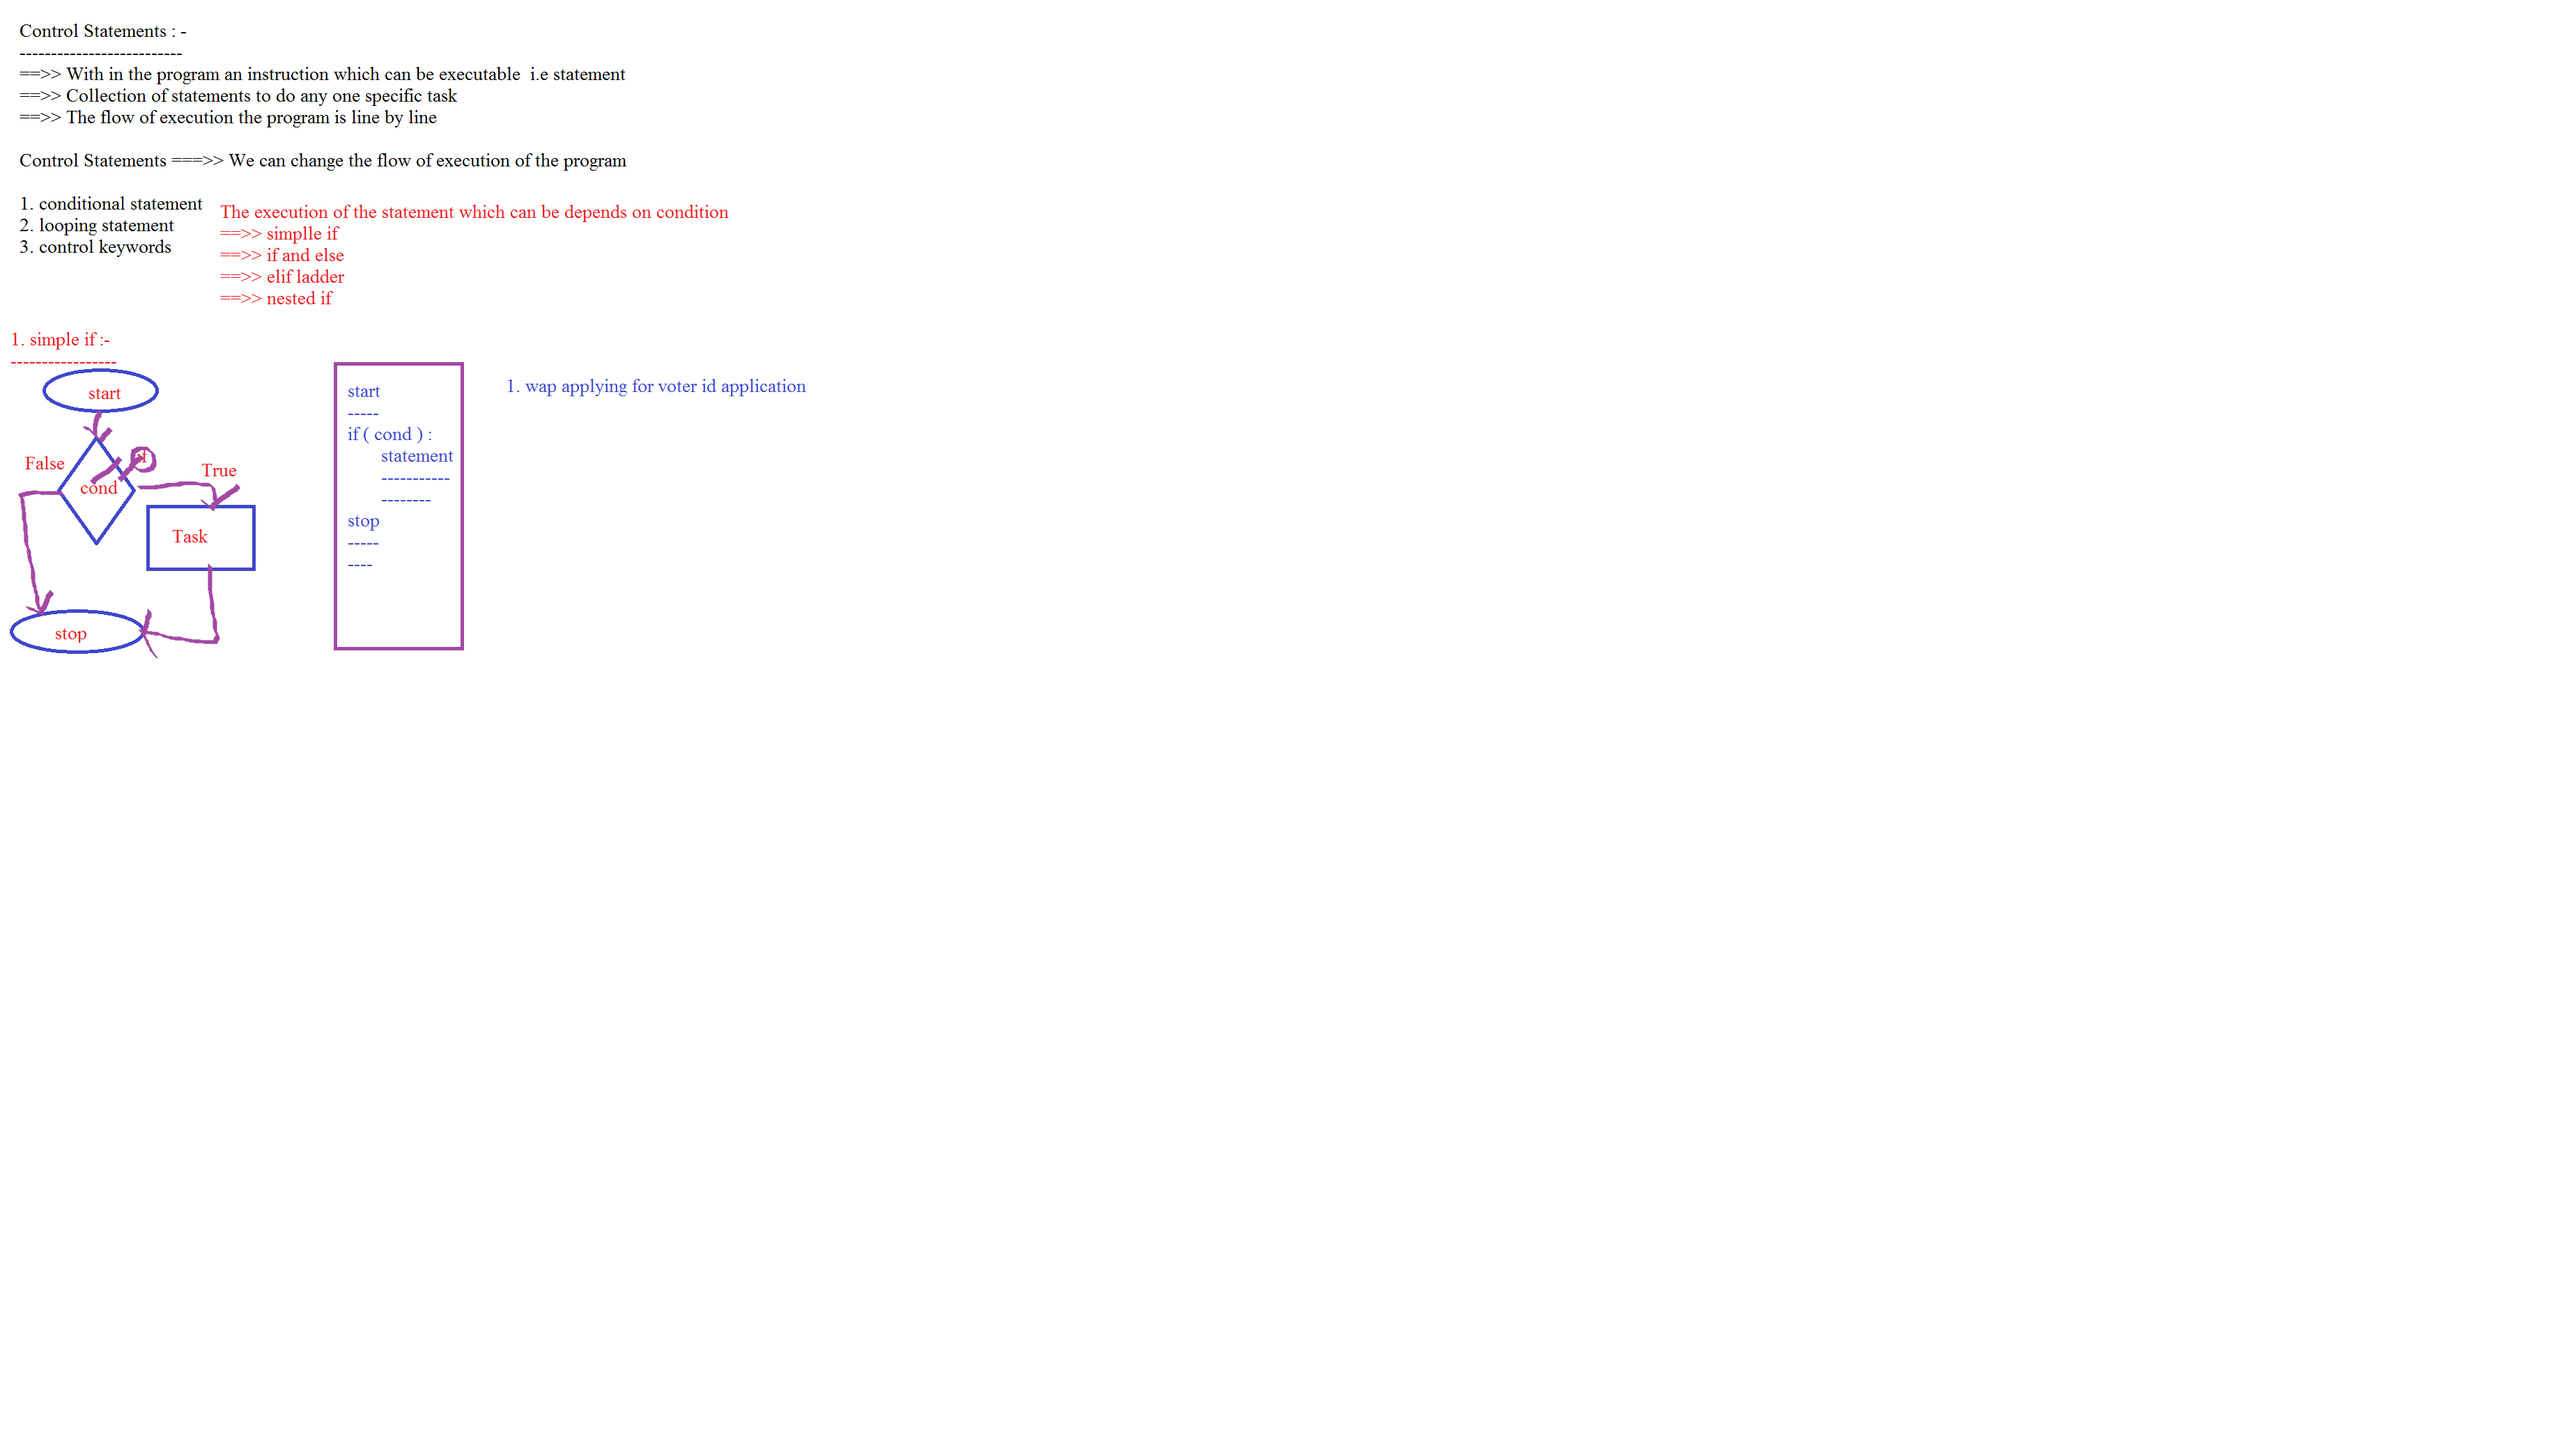
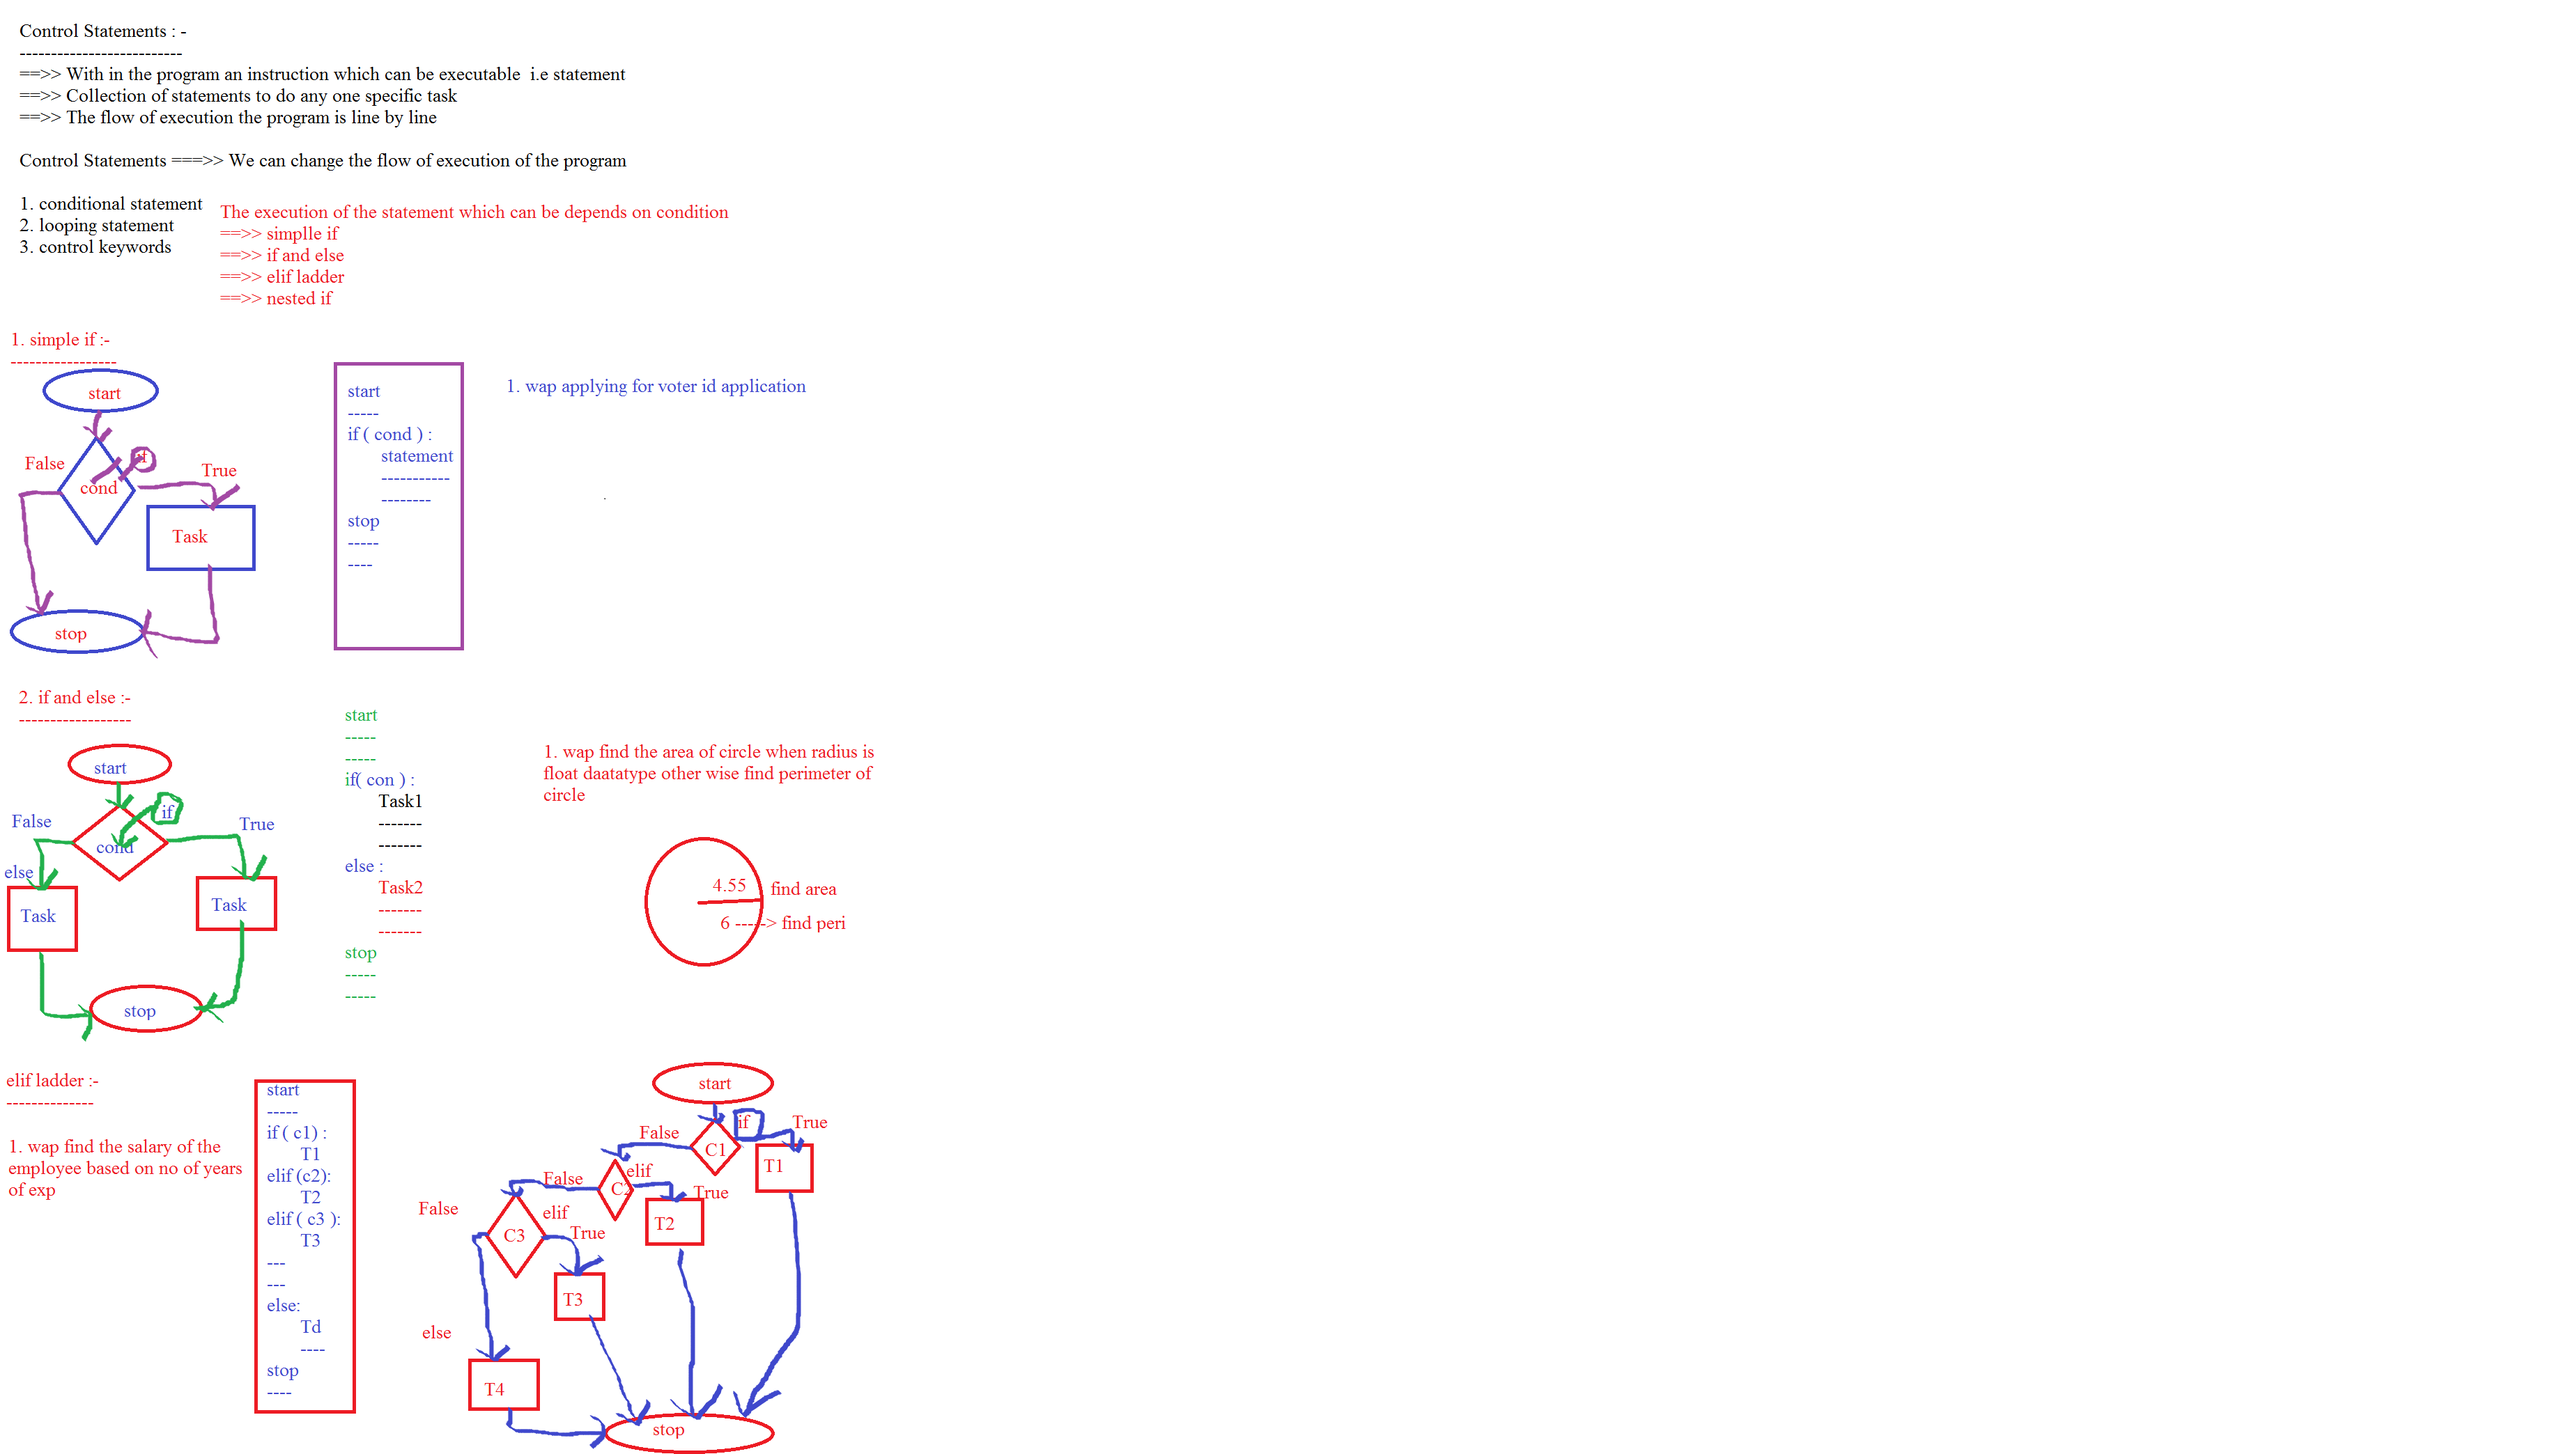
Add files via upload

diff --git a/002_Built_in_fun/001_syntax/003_fundamental.py b/002_Built_in_fun/001_syntax/003_fundamental.py
@@ -1,0 +1,38 @@
+# fundamental datatype
+'''
+A single variable can hold single data elements
+        int
+        float
+        complex
+        bool
+        None tupe
+'''
+print "*************  int *************"
+var = 123
+print "var : ",var
+print type(var)
+print id(var)
+print "*************  float *************"
+var = 12.5653
+print "var : ",var
+print type(var)
+print id(var)
+print "*************  complex*************"
+var = 12 + 45j
+print "var : ",var
+print type(var)
+print id(var)
+print "*************  bool *************"
+var = True
+print "var : ",var
+print type(var)
+print id(var)
+var = False
+print "var : ",var
+print type(var)
+print id(var)
+print "*************  None *************"
+var = None  # no data
+print "var : ",var
+print type(var)
+print id(var)

diff --git a/002_Built_in_fun/001_syntax/004_sequencial.py b/002_Built_in_fun/001_syntax/004_sequencial.py
@@ -1,0 +1,27 @@
+# seqencial datatype
+print "**************** str ************"
+var = "python program"
+print "data in var",var
+print type(var)
+print "memory : ",id(var)
+
+print "**************** list ************"
+var = [12,56.34,6+4j,None,True]
+print "data in var",var
+print type(var)
+print "memory : ",id(var)
+print "**************** tuple ************"
+var = (12,56.34,6+4j,None,True)
+print "data in var",var
+print type(var)
+print "memory : ",id(var)
+print "**************** set ************"
+var = {12,56.34,6+4j,None,True}
+print "data in var",var
+print type(var)
+print "memory : ",id(var)
+print "**************** dict ************"
+var = {12:123 ,56.34 : "soc" ,6+4j : "python",None:True}
+print "data in var",var
+print type(var)
+print "memory : ",id(var)

diff --git a/007_control/001_cond/003_salary.py b/007_control/001_cond/003_salary.py
@@ -1,0 +1,23 @@
+#wap find the salary based on exp
+
+exp = input("enter no of years of exp : ")
+if( exp >=0):
+    if( exp >=0 and exp <=2):
+        print "salary  2.4 lac PA "
+    elif( exp > 2 and exp <= 4):
+        print "salary  4.8 lac PA "
+    elif(exp > 4 and exp <= 6):
+        print "salary  8.0 lac PA "
+    elif(exp > 6 and exp <= 10):
+        print "salary  14.0 lac PA "
+    elif(exp > 10 and exp <= 14):
+        print "salary  25 lac PA "
+    elif(exp > 14 and exp <= 20):
+        print "salary  50 lac PA "
+    else:
+        print "salary 1.0 cr PA"
+else:
+    print" enter proper exp "
+
+
+

diff --git a/002_Built_in_fun/001_syntax/001_instruction.py b/002_Built_in_fun/001_syntax/001_instruction.py
@@ -1,0 +1,29 @@
+# script mode / batch mode
+'''
+---> Create a new file
+---> write the python statements  on  untilted file
+---> save the file as .py extention
+---> run the python direclty
+'''
+
+print "hell\
+o"  # single statement
+print "hai" ; print "sai"; print "bye"  # multiple statement
+#multiline statement
+print [1+2+
+       3+4+
+       5]
+print (1+2+
+       3+4+
+       5)
+print {1+2+
+       3+4}
+print 1+2+\
+      3+4+\
+      5
+print'''
+hello
+hai
+bye
+'''
+print'''hello'''

diff --git a/007_control/001_cond/002_area+peri_circle.py b/007_control/001_cond/002_area+peri_circle.py
@@ -1,0 +1,11 @@
+# area and perimeter based on radius datatype
+rad = input("enter radius in meters : ")
+pi = 22.0 /7
+if (isinstance(rad,float)):
+    area = pi*(rad ** 2)
+    print "area of circle : ",area," sq.m"
+else:
+    peri = 2*pi*rad
+    print "perimeter of circle : ",peri," meters"
+print"task over"
+    

diff --git a/002_Built_in_fun/001_syntax/002_compound.py b/002_Built_in_fun/001_syntax/002_compound.py
@@ -1,0 +1,16 @@
+#compound statement
+
+'''
+function
+
+if
+else
+for
+while
+exceptions
+'''
+if(True):
+    print "hello"
+    print"hai"
+    print"hai"
+    
